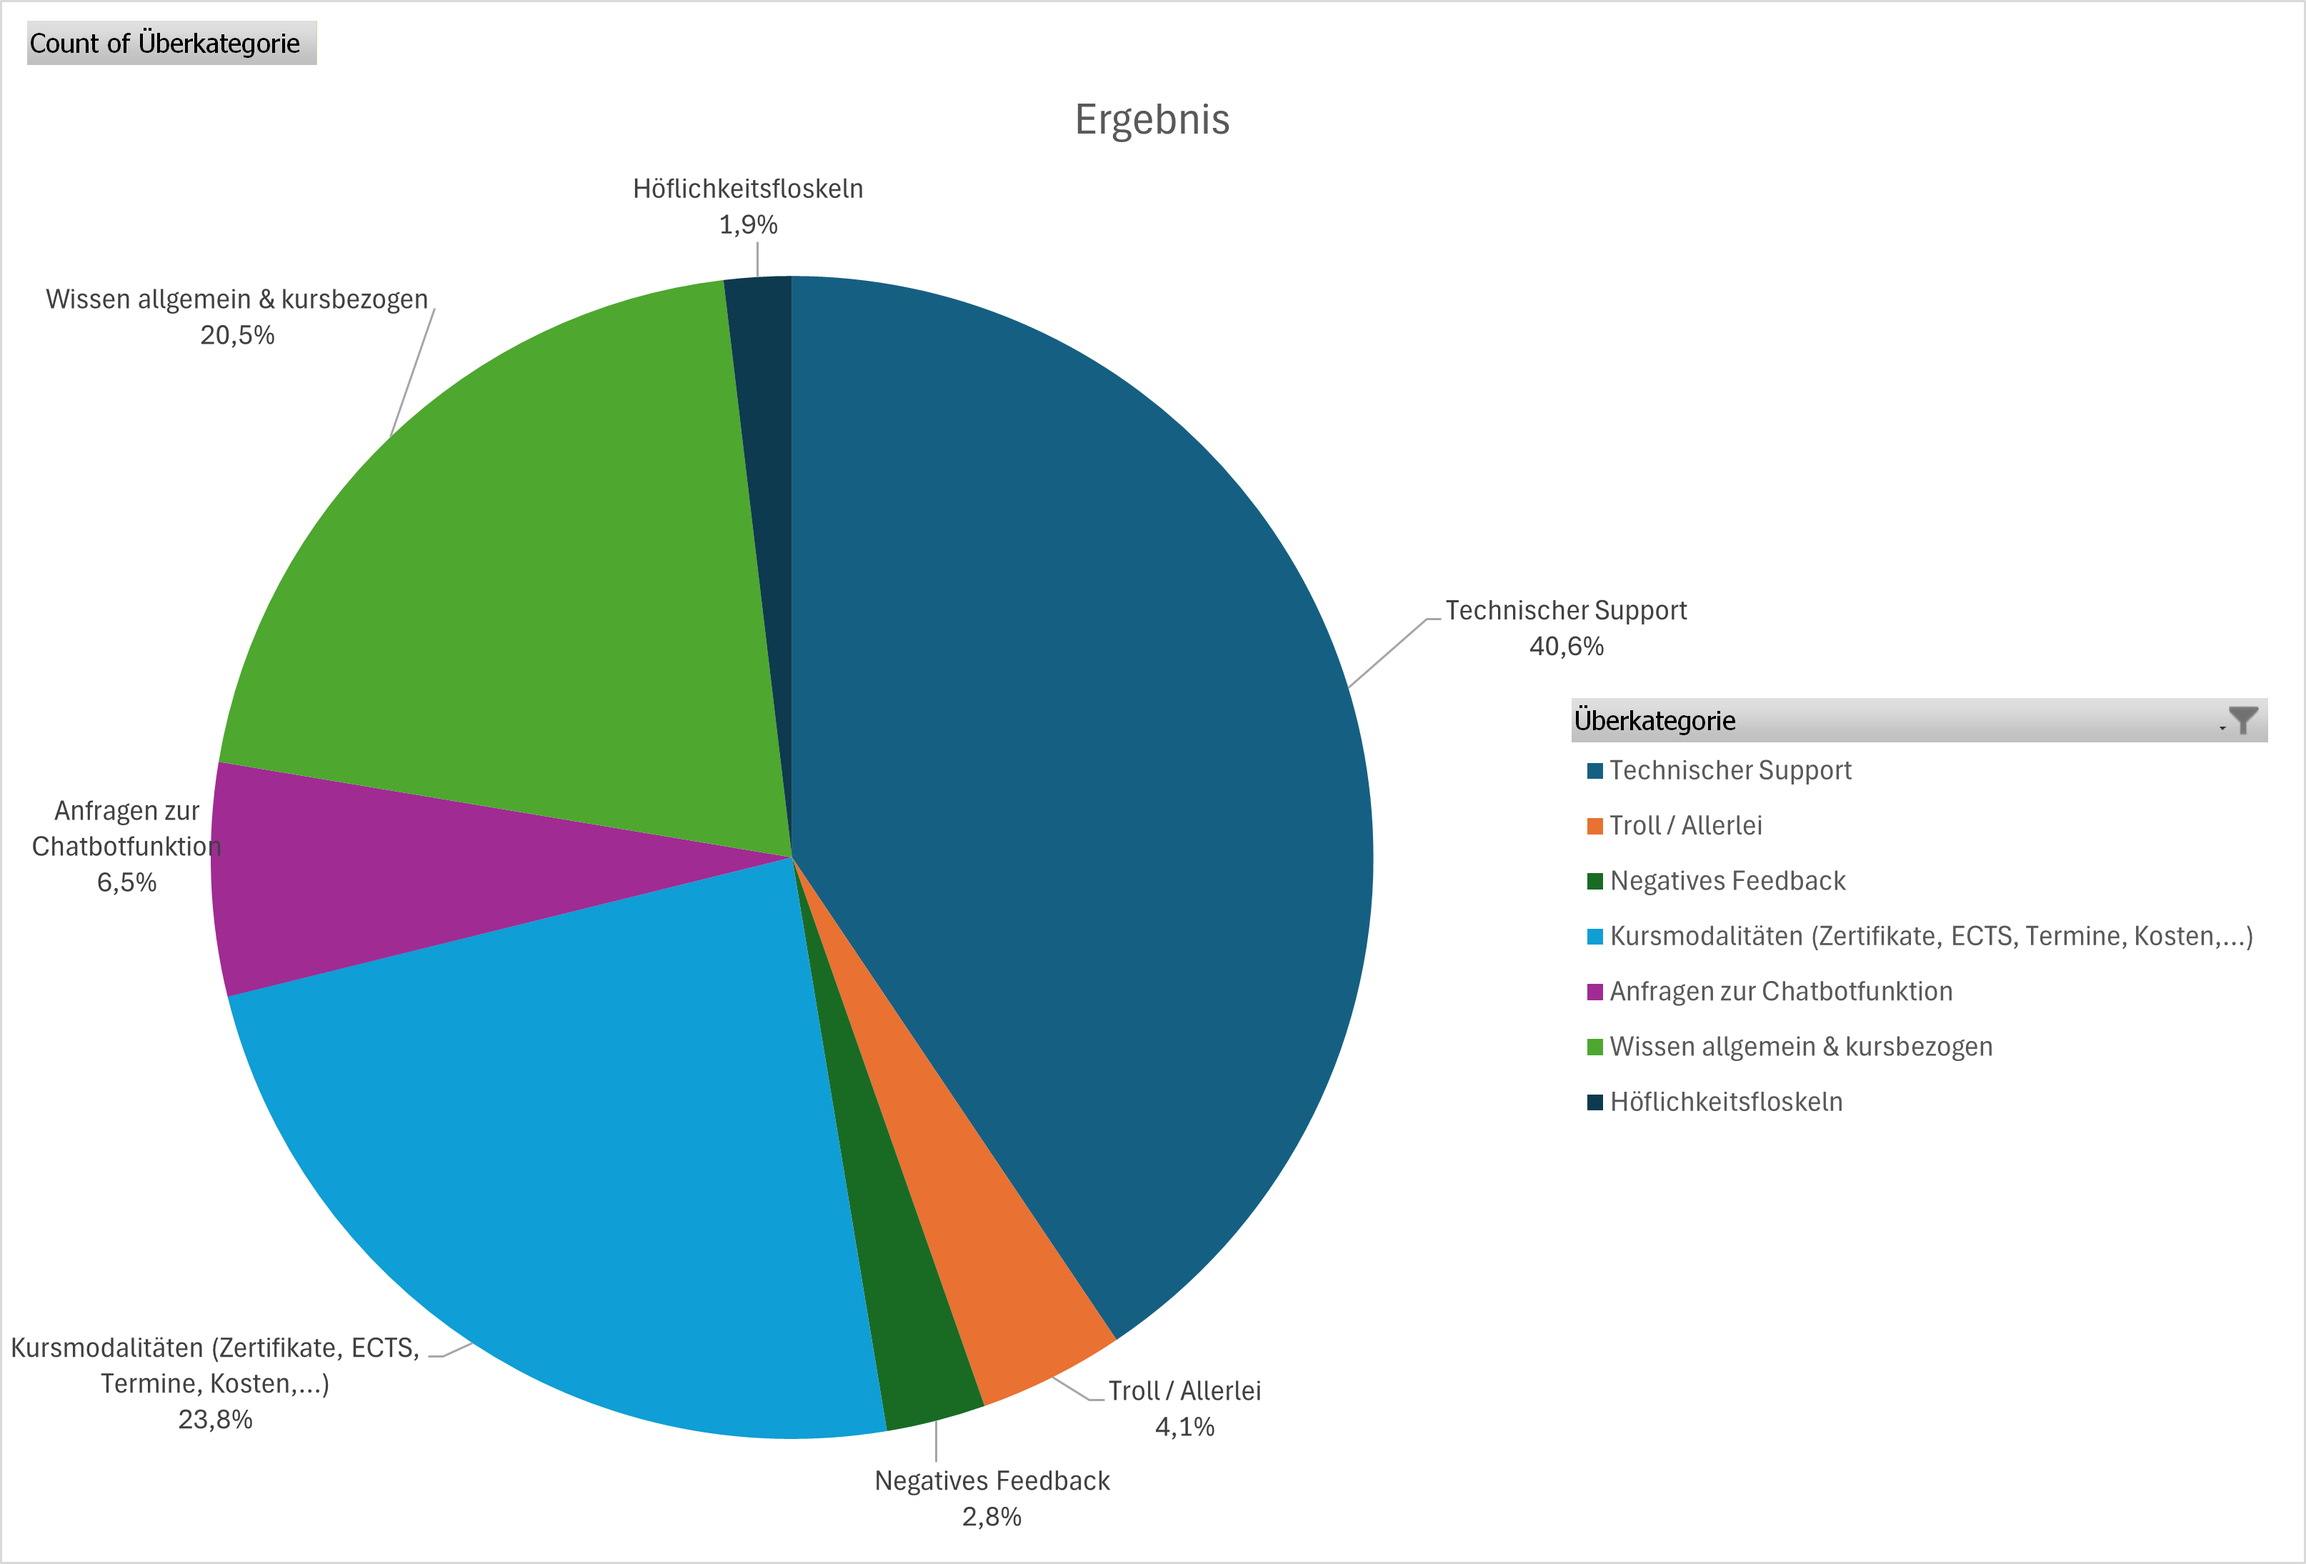
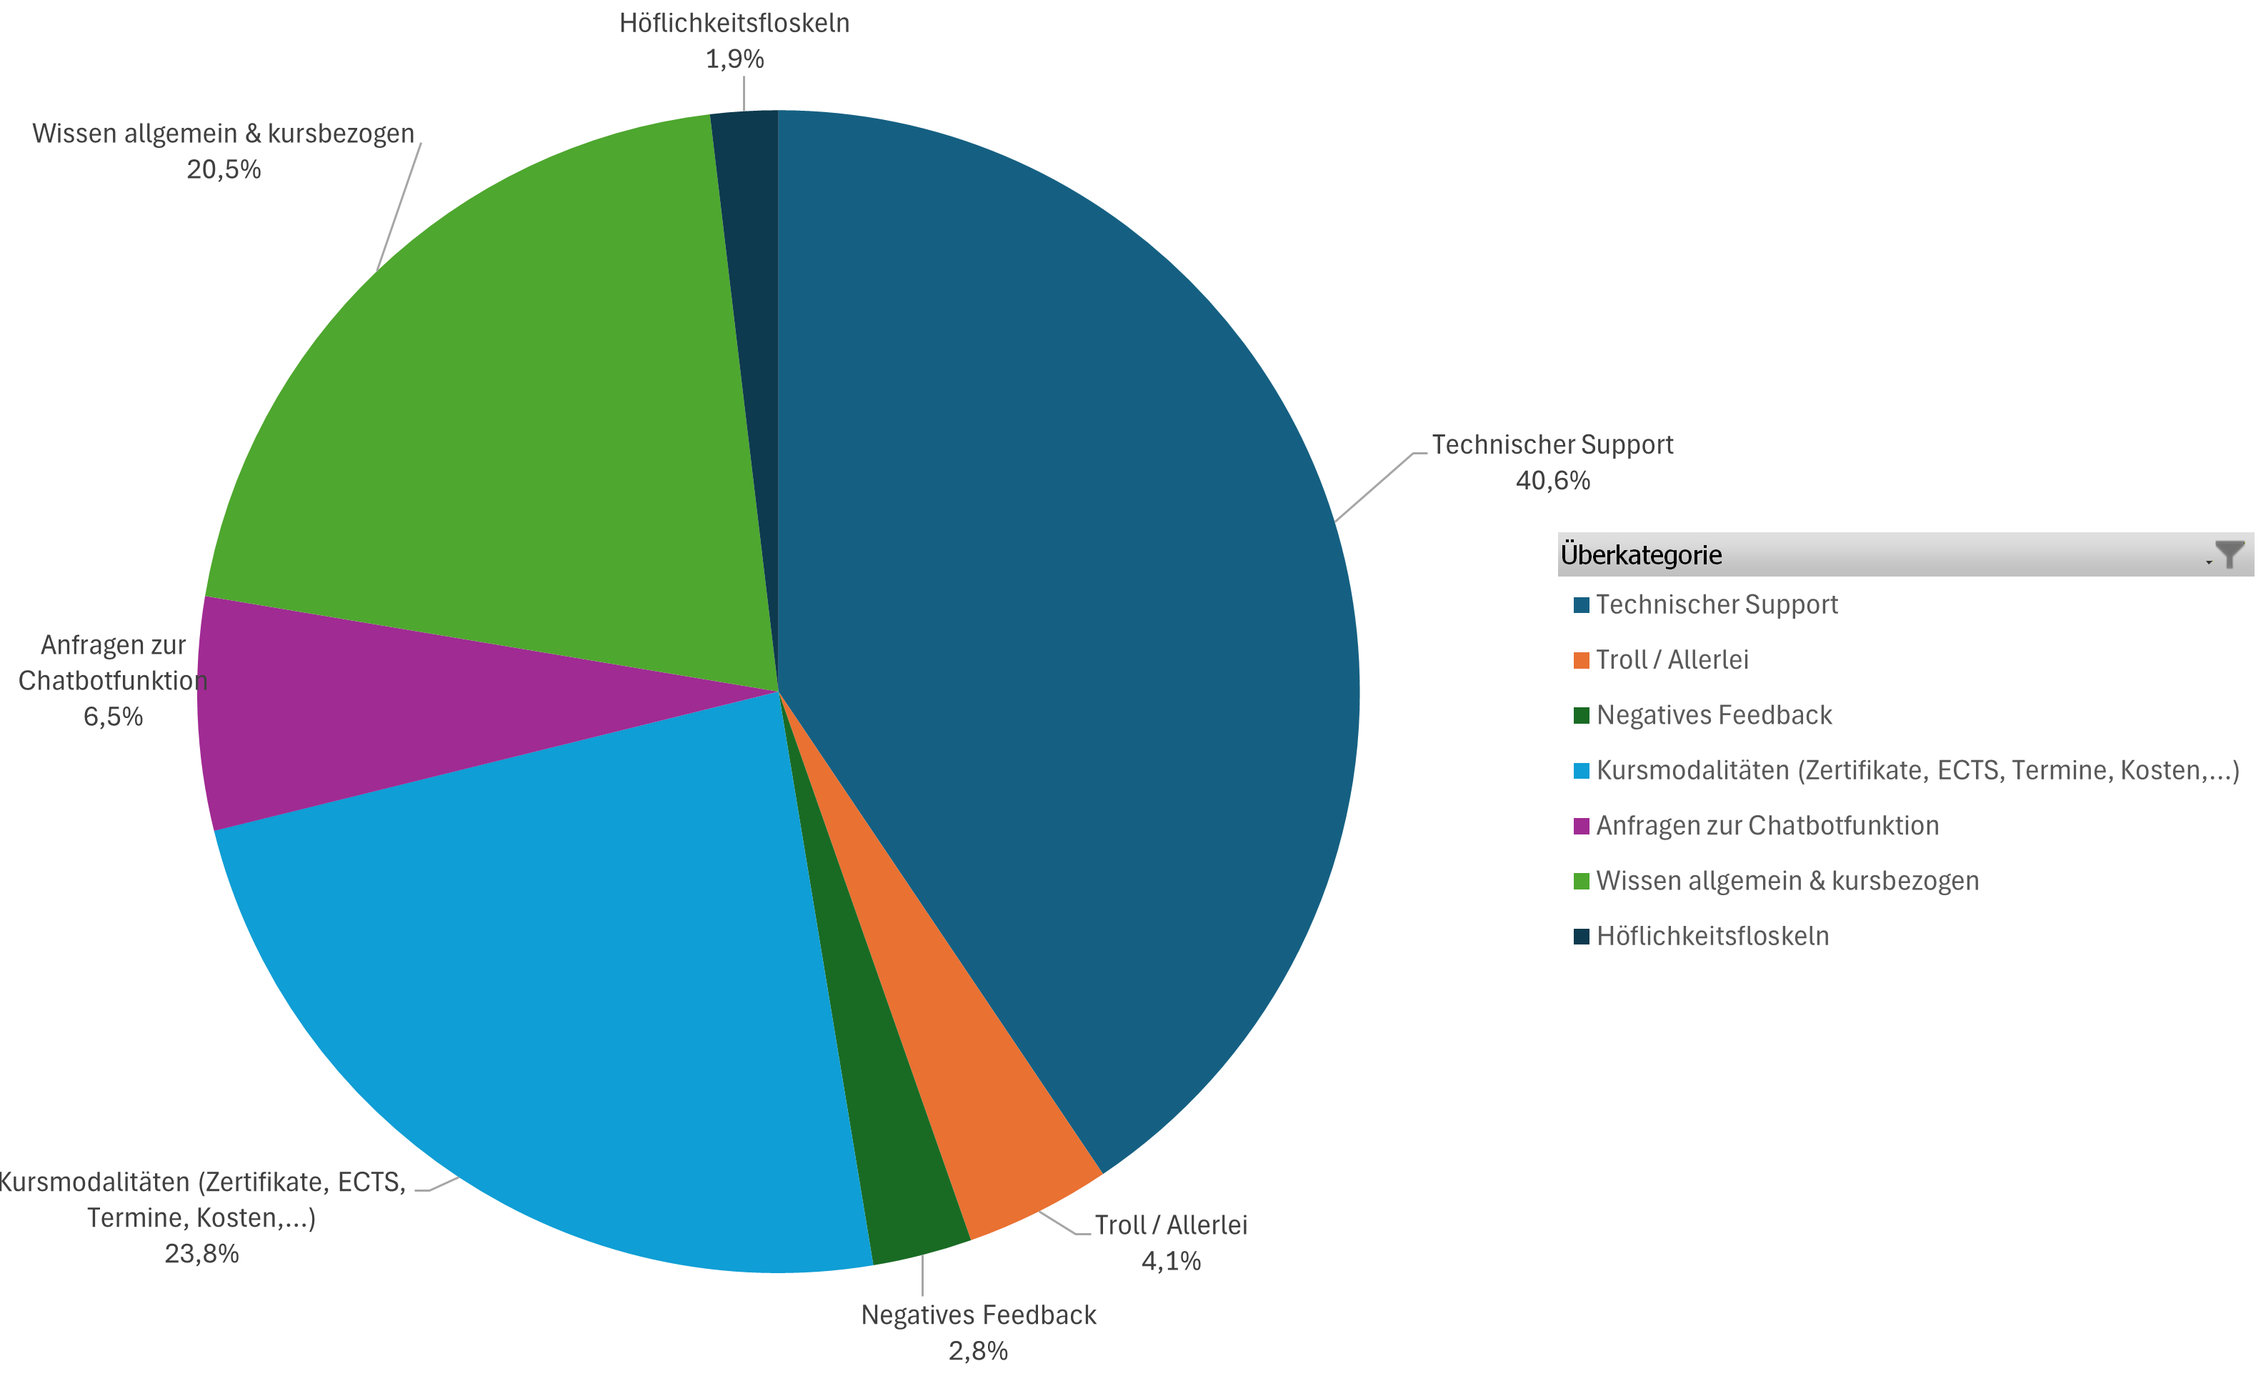
Clusterresults

diff --git a/kapitel/04_methodik.tex b/kapitel/04_methodik.tex
@@ -2,11 +2,10 @@
 \label{sec:daten_methodik}
 \section{Identifizierung von Use Cases}
 
-Die Optimierung des RAG-Chatbot-Systems basierte auf einer systematischen Analyse realer Nutzungsdaten aus dem Produktivbetrieb des KI-Campus. Hierzu wurden rund 13.000 Prompts aus dem Monitoring-Tool \textit{Langfuse} hiert und automatisiert vorverarbeitet. Ziel war es, dominante Nutzungsmuster datenbasiert zu identifizieren und daraus evaluierbare Use Cases abzuleiten. Die Datenaufbereitung und Analyse erfolgte mehrstufig und ist in Abbildung~\ref{fig:prozessfluss} schematisch dargestellt. Auf der linken Seite erscheint der jeweilige Prozesschritt, auf der rechten Seite die jeweils verbleibende Datenmenge.
+Die Datengrundlage für die Evaluation und Optimierung des Chatbots basierte auf einer systematischen Analyse realer Nutzungsdaten aus dem Produktivbetrieb des KI-Campus. Hierzu wurden alle verfügbaren Prompts aus dem Monitoring-Tool \textit{Langfuse} verarbeitet. Ziel war es, dominante Nutzungsmuster datenbasiert zu identifizieren und daraus evaluierbare Use Cases abzuleiten. Die Datenaufbereitung und Analyse erfolgte mehrstufig und ist in \autoref{fig:prozessfluss} schematisch dargestellt. Auf der linken Seite erscheint der jeweilige Prozesschritt, auf der rechten Seite die jeweils verbleibende Datenmenge.
 
 \begin{figure}[htbp]
 \centering
-
 \begin{tikzpicture}[
 box/.style={
 draw,
@@ -67,26 +66,28 @@ dichtebasiertes Clustering};
 {69 Cluster + Outlier};
 
 \node[nlabel, right=2cm of manual]
-{3 Use Case Kategorien};
+{7 Überkategorien};
 
 \end{tikzpicture}
-
 \caption{Prozess der datengetriebenen Use-Case-Identifikation}
 \label{fig:prozessfluss}
-
 \end{figure}
+\noindent
+Im Rahmen der Vorfilterung der 13.000 erhaltenen Prompts wurden irrelevante oder störende Eingaben entfernt, darunter reine Höflichkeitsfloskeln („Hallo“, „Danke“), Testanfragen („Was kannst du?“), potenziell missbräuchliche Inhalte sowie leere oder sehr kurze Prompts. Zudem wurden Duplikate entfernt, wonach 11.778 inhaltlich relevante Anfragen verbleiben. Diese wurden mithilfe eines multilingualen Embedding-Modells in einen semantischen Vektorraum projiziert und anschließend mittels dimensionsreduzierter, dichtebasierter Clusterverfahren gruppiert. Das Verfahren identifizierte 69 thematisch kohärente Cluster mit mindestens 30 Prompts sowie eine Menge an Ausreißern. Die Cluster wurden anschließend manuell zu übergeordneten Nutzungskategorien aggregiert. Die Ergebnisse dieser manuellen Aggregation sind in \autoref{fig:ergebnis_cluster} dargestellt.
 
-Im Rahmen der Vorfilterung wurden irrelevante oder störende Eingaben entfernt, darunter reine Höflichkeitsfloskeln („Hallo“, „Danke“), Testanfragen („Was kannst du?“), potenziell missbräuchliche Inhalte sowie leere oder sehr kurze Prompts. Nach Eliminierung von Duplikaten verblieben 11.778 inhaltlich relevante Anfragen.
-
-Diese wurden mithilfe eines multilingualen Embedding-Modells in einen semantischen Vektorraum projiziert und anschließend mittels dimensionsreduzierter, dichtebasierter Clusterverfahren gruppiert. Das Verfahren identifizierte 69 thematisch kohärente Cluster mit mindestens 30 Prompts sowie eine Menge an Ausreißern. Die Cluster wurden anschließend manuell zu übergeordneten Nutzungskategorien aggregiert.
-
+\begin{figure}[H]
+    \centering
+    \includegraphics[width=\textwidth]{clustering_result.png}
+    \caption{Ergebnis der Clustering-Analyse}
+    \label{fig:ergebnis_cluster}
+\end{figure}
+\noindent
 Die Verteilung zeigte drei dominante Interaktionsbereiche:
 \begin{itemize}
     \item Technischer Support (40\,\%)
     \item Wissen allgemein \& kursbezogen (31\,\%)
     \item Kursmodalitäten (20\,\%)
 \end{itemize}
-
 Die empirische Struktur der Anfragen bildet die Grundlage für die Definition der evaluativen Use Cases. Ziel war es, reale Nutzungsmuster systematisch zu abstrahieren und in klar unterscheidbare Testszenarien zu überführen.
 
 \paragraph{Use Case 1: Technischer Support}

diff --git a/kapitel/02_kic.tex b/kapitel/02_kic.tex
@@ -38,7 +38,7 @@ Die letzte Komponente ist das Postprocessing, bei dem die generierte Antwort um 
 
 \begin{figure}[H]
     \centering
-    \includegraphics[width=0.95\textwidth]{workflow_kic_org.png}
+    \includegraphics[width=0.9\textwidth]{workflow_kic_org.png}
     \caption{Konzeptioneller Workflow des KI-Campus-Chatbots.}
     \label{fig:kic-workflow}
 \end{figure}
